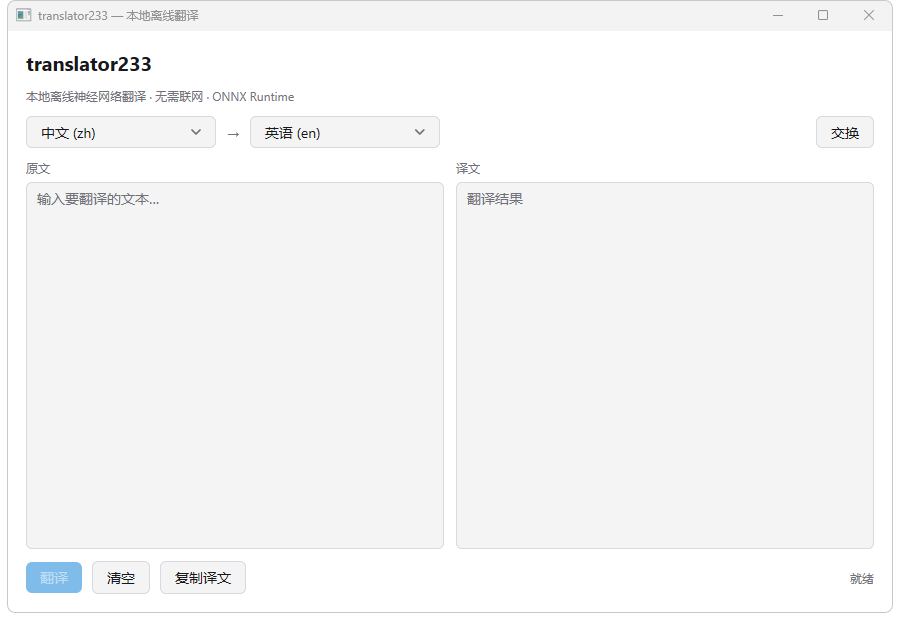
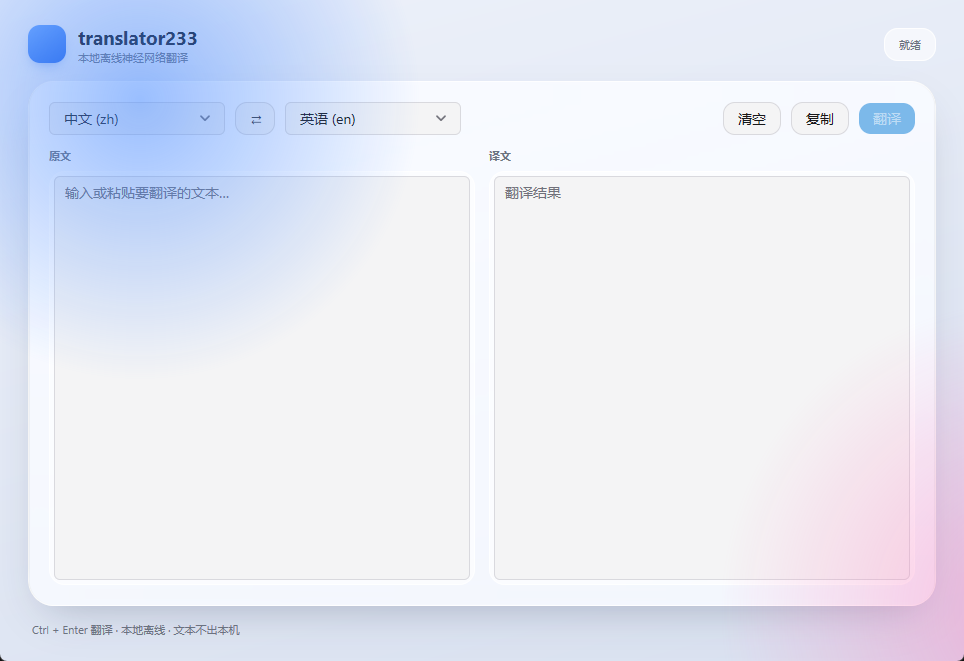
feat(gui): Liquid Glass 毛玻璃界面 + 明暗主题
- 主面板改用 mygo/plugins/glass 液态玻璃材质，径向柔光背景
- 卡片圆角/描边/投影、inset 文本框、耗时与状态胶囊
- 窗口最小 620x480，双栏随窗口等比拉伸；空闲 76MB RSS
- 新增 docs/gui-dark.png 与深色渲染测试（DUMP_DARK）

diff --git a/internal/gui/gui.go b/internal/gui/gui.go
@@ -10,6 +10,7 @@ import (
 	"strings"
 	"sync"
 
+	"github.com/egoist/mygo/plugins/glass"
 	"github.com/egoist/mygo/ui"
 	"github.com/neko233-com/translator233/internal/lang"
 	"github.com/neko233-com/translator233/internal/llm"
@@ -21,12 +22,6 @@ import (
 // Translator is the part of translate.Service the window uses.
 type Translator interface {
 	Translate(ctx context.Context, req translate.Request) (*translate.Result, error)
-}
-
-// Initializer is implemented by services that can prepare defaults themselves.
-type Initializer interface {
-	EnsureDefaults(ctx context.Context) error
-	HasPacks() bool
 }
 
 // State is everything the window shows.
@@ -197,6 +192,14 @@ func (s *State) Translate(srcText, srcLang, tgtLang string) {
 	}()
 }
 
+// label renders a language code for the pane headers.
+func (s *State) label(code string) string {
+	if code == "" || code == "auto" {
+		return "自动检测"
+	}
+	return lang.Name(code)
+}
+
 // CodeOf extracts the language code from a display label like "中文 (zh)".
 func CodeOf(display string) string {
 	if i := strings.LastIndex(display, "("); i >= 0 {
@@ -205,85 +208,199 @@ func CodeOf(display string) string {
 	return display
 }
 
+// palette is the set of colors the window paints with, in light or dark.
+type palette struct {
+	bgFrom, bgTo ui.Color
+	glowA, glowB ui.Color
+	cardBorder   ui.Color
+	glassTint    ui.Color
+	inset        ui.Color
+	text, muted  ui.Color
+	accent       ui.Color
+	accentText   ui.Color
+}
+
+func paletteOf(t *ui.Theme) palette {
+	if t.Dark {
+		return palette{
+			bgFrom:     ui.Hex("#0A0C11"),
+			bgTo:       ui.Hex("#171B25"),
+			glowA:      ui.RGBA(88, 120, 255, 0.55),
+			glowB:      ui.RGBA(255, 96, 180, 0.42),
+			cardBorder: ui.RGBA(255, 255, 255, 0.14),
+			glassTint:  ui.RGBA(255, 255, 255, 0.06),
+			inset:      ui.RGBA(255, 255, 255, 0.06),
+			text:       ui.Hex("#F2F4F8"),
+			muted:      ui.Hex("#8E96A6"),
+			accent:     ui.Hex("#4C8DFF"),
+			accentText: ui.Hex("#FFFFFF"),
+		}
+	}
+	return palette{
+		bgFrom:     ui.Hex("#EDF1FA"),
+		bgTo:       ui.Hex("#D9E1F0"),
+		glowA:      ui.RGBA(76, 141, 255, 0.55),
+		glowB:      ui.RGBA(255, 118, 186, 0.45),
+		cardBorder: ui.RGBA(255, 255, 255, 0.85),
+		inset:      ui.RGBA(255, 255, 255, 0.60),
+		text:       ui.Hex("#131722"),
+		muted:      ui.Hex("#6B7280"),
+		accent:     ui.Hex("#2F6FEB"),
+		accentText: ui.Hex("#FFFFFF"),
+	}
+}
+
 // View renders the window. It is a pure function of the state, so the same
 // view can be driven by MyGo's headless tester.
 func (s *State) View(c *ui.Context) {
-	t := c.Theme()
+	theme := c.Theme()
+	p := paletteOf(theme)
 
 	s.mu.Lock()
 	src, tgt := s.Src, s.Tgt
 	in, out := s.In, s.Out
 	busy := s.Busy
 	note := s.Note
+	ms := s.ms
 	s.mu.Unlock()
 
 	srcDisplay := s.display[src]
 	tgtDisplay := s.display[tgt]
 
-	ui.Column(c).Fill().Padding(18).Gap(12).Children(func() {
-		ui.Text(c, "translator233").FontSize(20).Bold().TextColor(t.Text)
-		ui.Text(c, "本地离线神经网络翻译 · 无需联网 · ONNX Runtime").FontSize(12).TextColor(t.TextMuted)
+	ui.Column(c).Fill().Gradient(p.bgFrom, p.bgTo, 165).Children(func() {
+		// Ambient colour wash behind the glass, like a blurred wallpaper.
+		s.glow(c, -140, -180, 560, p.glowA)
+		s.glow(c, 720, 300, 620, p.glowB)
 
-		ui.Row(c).Gap(10).Children(func() {
-			ui.Select(c, &srcDisplay, s.Options()).Width(190).Label("源语言")
-			ui.Text(c, "→").FontSize(16).TextColor(t.TextMuted)
-			ui.Select(c, &tgtDisplay, s.Options()).Width(190).Label("目标语言")
-			ui.Spacer(c)
-			if ui.Button(c, "交换").Label("交换语言").Disabled(busy).Clicked() {
-				a, b := src, tgt
-				if a != "auto" && b != "auto" {
-					s.mu.Lock()
-					s.Src, s.Tgt = b, a
-					s.mu.Unlock()
-				}
-			}
-		})
-		if next := CodeOf(srcDisplay); next != src {
-			s.mu.Lock()
-			s.Src = next
-			s.mu.Unlock()
-		}
-		if next := CodeOf(tgtDisplay); next != tgt {
-			s.mu.Lock()
-			s.Tgt = next
-			s.mu.Unlock()
-		}
+		ui.Column(c).Fill().Padding(24, 28).Gap(16).Children(func() {
+			s.header(c, p, note)
 
-		ui.Row(c).Fill().AlignItems(ui.Stretch).Gap(12).Children(func() {
-			ui.Column(c).FillWidth().Grow(1).Gap(6).Children(func() {
-				ui.Text(c, "原文").FontSize(12).TextColor(t.TextMuted)
-				ui.TextArea(c, &in).FillHeight().Label("原文输入").Placeholder("输入要翻译的文本…")
-			})
-			ui.Column(c).FillWidth().Grow(1).Gap(6).Children(func() {
-				ui.Text(c, "译文").FontSize(12).TextColor(t.TextMuted)
-				ui.TextArea(c, &out).FillHeight().Label("译文输出").Placeholder("翻译结果")
+			// The main glass card.
+			ui.Column(c).Fill().Radius(26).Padding(20).Gap(14).
+				Border(1, p.cardBorder).
+				Shadow(0, 18, 44, -18, ui.RGBA(20, 30, 60, 0.28)).
+				Material(glass.Glass{Style: glass.Regular, Tint: p.glassTint, Clarity: 0}).
+				Children(func() {
+					s.toolbar(c, p, &srcDisplay, &tgtDisplay, busy, in)
+					s.panes(c, p, &in, &out, ms)
+				})
+
+			ui.Row(c).Gap(10).Padding(0, 4).Children(func() {
+				ui.Text(c, "Ctrl + Enter 翻译 · 本地离线 · 文本不出本机").FontSize(11).TextColor(p.muted)
 			})
 		})
-		if in != s.In {
-			s.mu.Lock()
-			s.In = in
-			s.mu.Unlock()
-		}
-		if out != s.Out {
-			s.mu.Lock()
-			s.Out = out
-			s.mu.Unlock()
-		}
+	})
 
-		ui.Row(c).Gap(10).Children(func() {
-			if ui.PrimaryButton(c, "翻译").Disabled(busy || strings.TrimSpace(in) == "").Clicked() {
-				s.Translate(in, src, tgt)
-			}
-			if ui.Button(c, "清空").Clicked() {
+	if next := CodeOf(srcDisplay); next != src {
+		s.mu.Lock()
+		s.Src = next
+		s.mu.Unlock()
+	}
+	if next := CodeOf(tgtDisplay); next != tgt {
+		s.mu.Lock()
+		s.Tgt = next
+		s.mu.Unlock()
+	}
+	if in != s.In {
+		s.mu.Lock()
+		s.In = in
+		s.mu.Unlock()
+	}
+	if out != s.Out {
+		s.mu.Lock()
+		s.Out = out
+		s.mu.Unlock()
+	}
+}
+
+// glow paints one soft ambient blob that the glass above it frosts.
+func (s *State) glow(c *ui.Context, left, top, size float32, color ui.Color) {
+	ui.Box(c).Absolute().Left(left).Top(top).Width(size).Height(size).
+		RadialGradient(ui.RadialGradient{
+			Stops:  []ui.GradientStop{{Color: color, At: 0}, {Color: ui.Transparent, At: 1}},
+			Radius: size / 2,
+		})
+}
+
+func (s *State) header(c *ui.Context, p palette, note string) {
+	ui.Row(c).Gap(12).Children(func() {
+		ui.Box(c).Width(38).Height(38).Radius(12).
+			Gradient(ui.Hex("#6FA8FF"), ui.Hex("#2F6FEB"), 145).
+			Shadow(0, 6, 14, -6, ui.RGBA(47, 111, 235, 0.55))
+		ui.Column(c).Gap(1).Children(func() {
+			ui.Text(c, "translator233").FontSize(19).Bold().TextColor(p.text)
+			ui.Text(c, "本地离线神经网络翻译").FontSize(11).TextColor(p.muted)
+		})
+		ui.Spacer(c)
+		ui.Row(c).Gap(8).Padding(8, 14).Radius(14).
+			Background(p.inset).Border(1, p.cardBorder).
+			Children(func() {
+				ui.Text(c, note).FontSize(11).TextColor(p.muted)
+			})
+	})
+}
+
+func (s *State) toolbar(c *ui.Context, p palette, srcDisplay, tgtDisplay *string, busy bool, in string) {
+	ui.Row(c).Gap(10).Children(func() {
+		ui.Select(c, srcDisplay, s.Options()).Width(176).Label("源语言")
+		if ui.Button(c, "⇄").Label("交换语言").Width(40).Radius(12).
+			Disabled(busy).Clicked() {
+			a, b := s.Src, s.Tgt
+			if a != "auto" && b != "auto" {
 				s.mu.Lock()
-				s.In, s.Out = "", ""
+				s.Src, s.Tgt = b, a
 				s.mu.Unlock()
 			}
-			if ui.Button(c, "复制译文").Clicked() {
-				c.WriteClipboard(out)
-			}
-			ui.Spacer(c)
-			ui.Text(c, note).FontSize(12).TextColor(t.TextMuted)
+		}
+		ui.Select(c, tgtDisplay, s.Options()).Width(176).Label("目标语言")
+		ui.Spacer(c)
+		if ui.Button(c, "清空").Radius(12).Disabled(busy).Clicked() {
+			s.mu.Lock()
+			s.In, s.Out = "", ""
+			s.mu.Unlock()
+		}
+		if ui.Button(c, "复制").Label("复制译文").Radius(12).Disabled(busy).Clicked() {
+			s.mu.Lock()
+			text := s.Out
+			s.mu.Unlock()
+			c.WriteClipboard(text)
+		}
+		btn := ui.PrimaryButton(c, "翻译").Label("翻译").Radius(12).
+			Disabled(busy || strings.TrimSpace(in) == "")
+		if btn.Clicked() {
+			s.Translate(in, s.Src, s.Tgt)
+		}
+	})
+}
+
+func (s *State) panes(c *ui.Context, p palette, in, out *string, ms float64) {
+	ui.Row(c).Fill().AlignItems(ui.Stretch).Gap(14).Children(func() {
+		ui.Column(c).FillWidth().Grow(1).Gap(8).Children(func() {
+			ui.Row(c).Children(func() {
+				ui.Text(c, "原文").FontSize(11).Bold().TextColor(p.muted)
+				ui.Spacer(c)
+			})
+			ui.Column(c).Fill().Radius(16).Padding(4).
+				Background(p.inset).Border(1, p.cardBorder).
+				Children(func() {
+					ui.TextArea(c, in).FillHeight().Label("原文输入").
+						Placeholder("输入或粘贴要翻译的文本…")
+				})
+		})
+		ui.Column(c).FillWidth().Grow(1).Gap(8).Children(func() {
+			ui.Row(c).Children(func() {
+				ui.Text(c, "译文").FontSize(11).Bold().TextColor(p.muted)
+				ui.Spacer(c)
+				if ms > 0 {
+					ui.Text(c, fmt.Sprintf("%.0f ms", ms)).FontSize(10).TextColor(p.muted)
+				}
+			})
+			ui.Column(c).Fill().Radius(16).Padding(4).
+				Background(p.inset).Border(1, p.cardBorder).
+				Children(func() {
+					ui.TextArea(c, out).FillHeight().Label("译文输出").
+						Placeholder("翻译结果")
+				})
 		})
 	})
 }

diff --git a/cmd/translator233-gui/main.go b/cmd/translator233-gui/main.go
@@ -10,20 +10,20 @@ import (
 	"github.com/neko233-com/translator233/internal/gui"
 )
 
-func setTitleBarStyle() mygo.WindowOptions {
+func windowOptions() mygo.WindowOptions {
 	return mygo.WindowOptions{
 		Title:     "translator233 — 本地离线翻译",
-		Width:     900,
-		Height:    620,
-		MinWidth:  520,
-		MinHeight: 380,
+		Width:     980,
+		Height:    700,
+		MinWidth:  640,
+		MinHeight: 480,
 	}
 }
 
 func main() {
 	state := gui.New()
 	mygo.App.WhenReady(func() {
-		opts := setTitleBarStyle()
+		opts := windowOptions()
 		opts.Content = ui.View(state.View)
 		win := mygo.NewWindow(opts)
 		state.BindRedraw(func(fn func()) { win.Update(fn) })

diff --git a/internal/gui/dump_test.go b/internal/gui/dump_test.go
@@ -1,0 +1,28 @@
+package gui
+
+import (
+	"image/png"
+	"os"
+	"testing"
+
+	"github.com/egoist/mygo/ui"
+)
+
+func TestZZDumpDark(t *testing.T) {
+	path := os.Getenv("DUMP_DARK")
+	if path == "" {
+		t.Skip("DUMP_DARK not set")
+	}
+	s, _ := newTestState(t)
+	tester := ui.NewTester(s.View, 980, 700)
+	tester.SetDark(true)
+	tester.Frame()
+	f, err := os.Create(path)
+	if err != nil {
+		t.Fatal(err)
+	}
+	defer f.Close()
+	if err := png.Encode(f, tester.Image()); err != nil {
+		t.Fatal(err)
+	}
+}

diff --git a/README.md b/README.md
@@ -42,6 +42,7 @@ bin/translator233 serve
 | 命中缓存的调用（含进程启动） | **15ms** |
 | 单句推理（20 token 左右） | 120–200ms |
 | 常驻内存（2 个语向） | 约 500MB |
+| GUI 空闲内存（未翻译） | **76MB** |
 
 调优开关：
 
@@ -194,7 +195,17 @@ bin/translator233-gui
 
 ![GUI](docs/gui.png)
 
-基于 [MyGo](https://github.com/egoist/mygo) 的原生 UI（自绘 GPU 界面，不是 webview，也不是 cgo）：语言下拉、双栏文本区、交换/清空/复制、实时耗时状态。窗口可自由拖拽缩放，双栏文本框按比例拉伸（最小 520×380），首次启动会在后台自动安装 ONNX Runtime 和默认语言包。
+深色模式（跟随系统）：
+
+![GUI dark](docs/gui-dark.png)
+
+基于 [MyGo](https://github.com/egoist/mygo) 的原生 UI，不是 webview、不是 cgo、也没有内嵌浏览器：
+
+- **Liquid Glass 毛玻璃**：主面板用 `plugins/glass` 的液态玻璃材质（GPU/CPU 着色器，Windows 与 macOS 同一套观感），背景是两团径向柔光，隔着玻璃看到的是被磨砂后的色晕。
+- **自适应布局**：双栏文本框随窗口等比拉伸，最小 620×480，按钮行与状态栏贴底。
+- **轻**：空闲时 76MB RSS（模型首次翻译才加载），暗色/亮色跟随系统主题。
+
+界面全部是 Go 代码绘制的（`internal/gui`），同一份 `View` 由 `ui.NewTester` 在无头环境里跑布局断言，CI 里能直接测"窗口放大后双栏是否同步增长"。
 
 ## 架构
 
